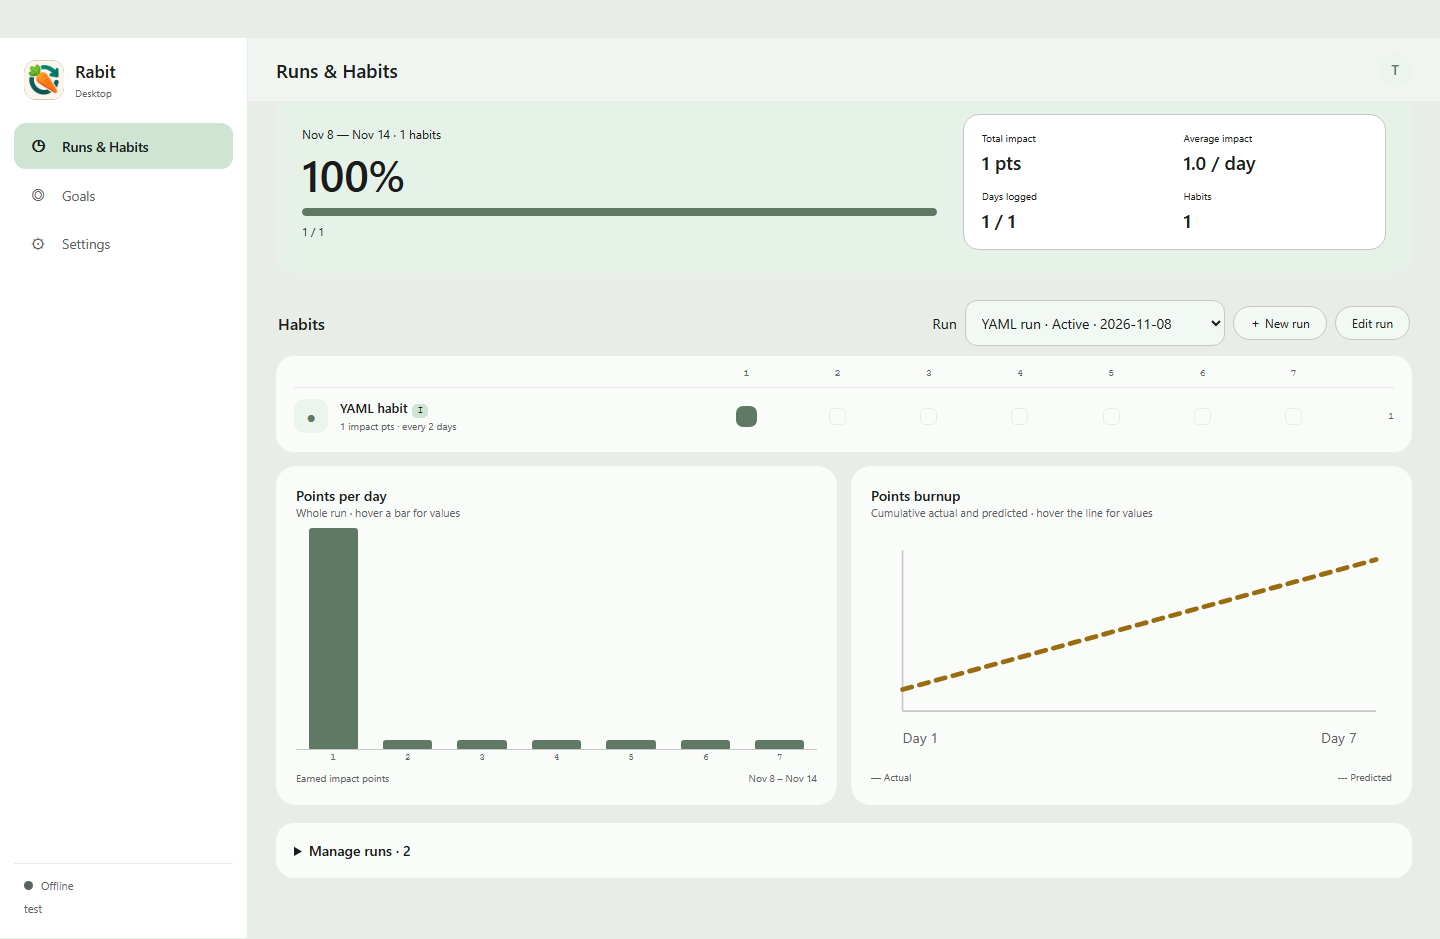
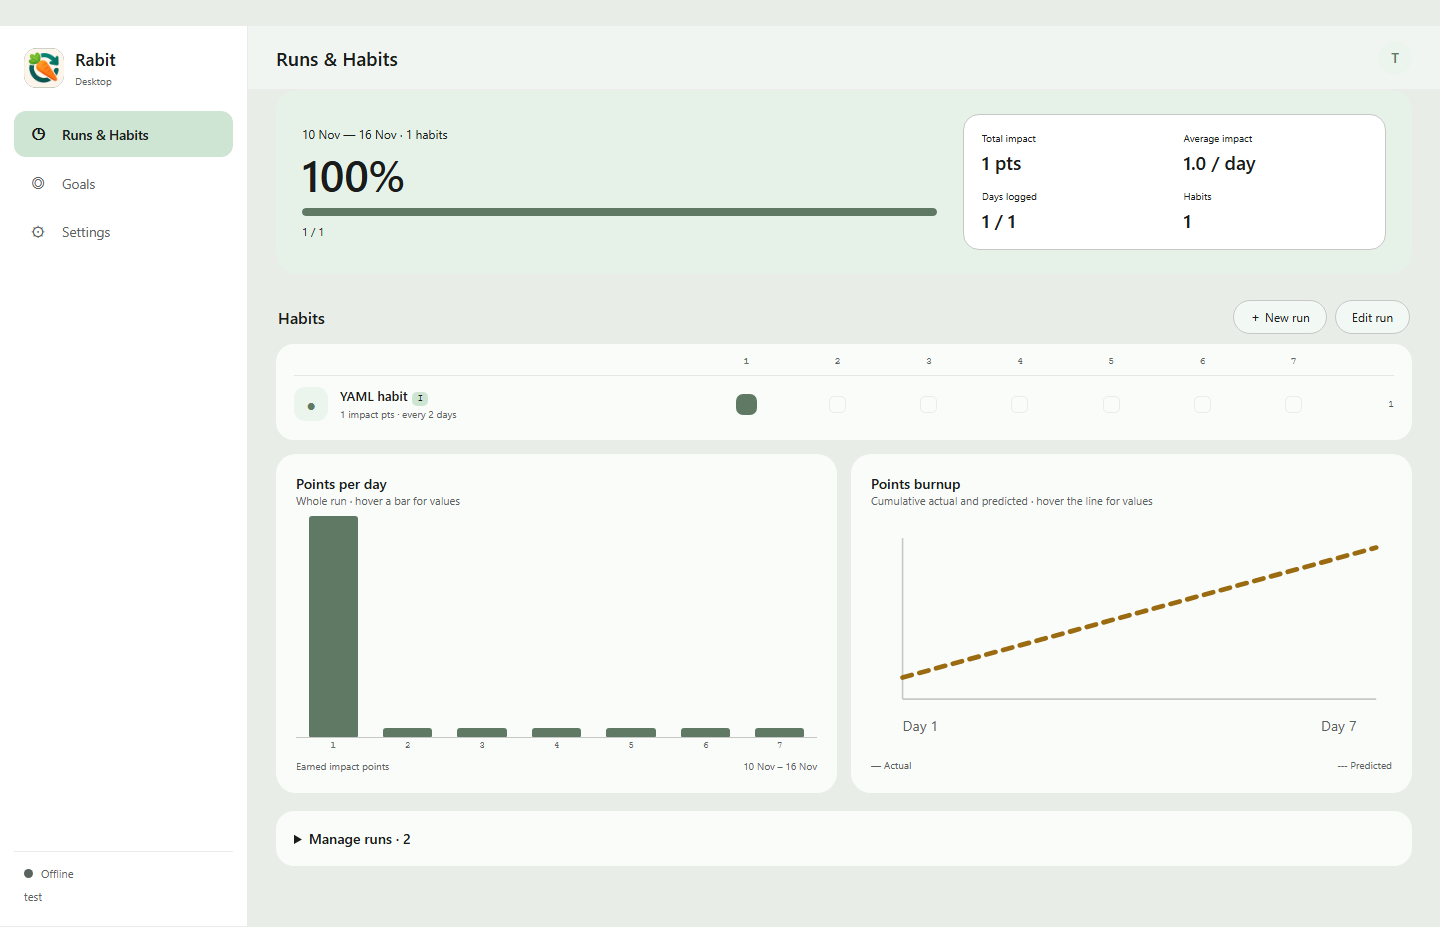
Keep one active run across Android and web

diff --git a/sync-server/src/main/resources/webapp/app.js b/sync-server/src/main/resources/webapp/app.js
@@ -203,6 +203,7 @@ async function sync() {
     }).filter(Boolean);
     const resp = await api('/api/sync', { device: deviceId(), token: Number(localStorage.getItem(LS.token) || 0), changes });
     for (const r of resp.changes || []) mergeIncoming(r);
+    ensureSingleActiveRun();
     localStorage.setItem(LS.token, String(resp.token));
     for (const [k, s] of snap) if (dirty.get(k) === s) dirty.delete(k);
     saveMirror();
@@ -218,16 +219,20 @@ async function sync() {
 }
 
 /* ---------- model ---------- */
-let selectedRunUid = '';
 function latestRun() {
-  const runs = rows('run').filter((r) => r.status === 'active');
-  runs.sort((a, b) => b.start_date.localeCompare(a.start_date));
-  return runs.find((r) => r.uid === selectedRunUid) || runs[0] || null;
+  const runs = allRuns();
+  return runs.find((r) => r.status === 'active') || runs[0] || null;
 }
 function allRuns() {
   const runs = rows('run');
-  runs.sort((a, b) => (a.start_date < b.start_date ? 1 : -1));
+  runs.sort((a, b) => b.start_date.localeCompare(a.start_date) || b.uid.localeCompare(a.uid));
   return runs;
+}
+// Keep the newest active run. Old parallel runs remain available as stopped history.
+function ensureSingleActiveRun() {
+  const active = allRuns().filter((r) => r.status === 'active');
+  for (const run of active.slice(1)) putRow('run', run.uid, { status: 'stopped' });
+  return Math.max(0, active.length - 1);
 }
 function duplicateHabitName(habits) {
   const seen = new Set();
@@ -558,6 +563,7 @@ function boot() {
   $('acctBtn').addEventListener('click', (e) => { e.stopPropagation(); $('acctMenu').classList.toggle('open'); });
   document.addEventListener('click', (e) => { if (!e.target.closest('.acct-wrap')) $('acctMenu').classList.remove('open'); });
   if (localStorage.getItem(LS.key)) {
+    ensureSingleActiveRun();
     setLoggedIn(true);
     showView('runs');
     showWelcomeIfNeeded();
@@ -692,14 +698,13 @@ function runManagement() {
   const runs = allRuns();
   if (!runs.length) return '';
   return `<details class="run-management"><summary>Manage runs · ${runs.length}</summary><p class="caption">Stop an active run before starting another. Deleting a run keeps its habits and check-in history.</p>
-    ${runs.map((r) => `<div class="run-management-row"><div><strong>${esc(r.name)}</strong><div class="caption">${esc(r.start_date)} · ${r.duration_days} days · ${r.status === 'active' ? 'Active' : 'Stopped'}</div></div><div class="head-btns"><button class="btn" data-click="viewRun" data-a="${safeId(r.uid)}">View</button><button class="btn" data-click="openEdit" data-a="${safeId(r.uid)}">Edit</button>${r.status === 'active' ? `<button class="btn" data-click="stopRun" data-a="${safeId(r.uid)}">Stop run</button>` : ''}<button class="btn" data-click="deleteRun" data-a="${safeId(r.uid)}">Delete run</button></div></div>`).join('')}</details>`;
+    ${runs.map((r) => `<div class="run-management-row"><div><strong>${esc(r.name)}</strong><div class="caption">${esc(r.start_date)} · ${r.duration_days} days · ${r.status === 'active' ? 'Active' : 'Stopped'}</div></div><div class="head-btns">${r.uid === latestRun()?.uid ? `<button class="btn" data-click="openEdit" data-a="${safeId(r.uid)}">Edit</button>` : ''}${r.status === 'active' ? `<button class="btn" data-click="stopRun" data-a="${safeId(r.uid)}">Stop run</button>` : ''}<button class="btn" data-click="deleteRun" data-a="${safeId(r.uid)}">Delete run</button></div></div>`).join('')}</details>`;
 }
 function stopRun(uid) {
   const run = row('run', uid)?.v;
   if (!run || run._deleted || run.status !== 'active') return;
   if (!window.confirm(`Stop “${run.name}”? You can still view its history.`)) return;
   putRow('run', uid, { status: 'stopped' });
-  selectedRunUid = uid;
   renderRuns();
 }
 function deleteRun(uid) {
@@ -708,12 +713,11 @@ function deleteRun(uid) {
   if (!window.confirm(`Delete “${run.name}”? Its habits and check-in history will be kept.`)) return;
   for (const link of rows('run_habit').filter((r) => r.run_uid === uid)) deleteRow('run_habit', link.uid);
   deleteRow('run', uid);
-  if (selectedRunUid === uid) selectedRunUid = '';
   renderRuns();
 }
 function renderRuns() {
   const body = $('runsBody');
-  const run = allRuns().find((r) => r.uid === selectedRunUid) || latestRun();
+  const run = latestRun();
   const today = todayLocal();
   if (!run) {
     body.innerHTML = (infiniteOn() ? infiniteView(today) : emptyRunsView()) + runManagement();
@@ -748,7 +752,7 @@ function renderRuns() {
     <div class="metric"><small>Days logged</small><b>${perDay.filter((e) => e > 0).length} / ${elapsed}</b></div>
     <div class="metric"><small>Habits</small><b>${habits.length}</b></div>
     </div></div></div>
-    <div class="section-head"><h3>Habits</h3><span class="head-btns"><label for="activeRunSelect">Run</label><select class="field" id="activeRunSelect" data-change="activeRun">${allRuns().map((r) => `<option value="${esc(safeId(r.uid))}"${r.uid === run.uid ? ' selected' : ''}>${esc(r.name)} · ${r.status === 'active' ? 'Active' : 'Stopped'} · ${esc(r.start_date)}</option>`).join('')}</select><button class="btn" data-click="openBuilder">＋ New run</button><button class="btn" data-click="openEdit" data-a="${safeId(run.uid)}">Edit run</button></span></div>
+    <div class="section-head"><h3>Habits</h3><span class="head-btns"><button class="btn" data-click="openBuilder">＋ New run</button><button class="btn" data-click="openEdit" data-a="${safeId(run.uid)}">Edit run</button></span></div>
     ${habitTable(visibleHabits, run.start_date, dur, today, 1)}
     ${resting.length ? `<details class="not-due"><summary>Not due today · ${resting.length}</summary><p class="caption">You can still log these habits whenever you choose.</p>${habitTable(resting, run.start_date, dur, today, 1)}</details>` : ''}
     <div class="charts-2">
@@ -1157,7 +1161,6 @@ function createRun() {
   if (duplicate) { showRunError(`“${duplicate}” appears more than once. Give each habit a different name.`); return; }
   const runId = `run-${start}-${randHex(4)}`;
   putRow('run', runId, { uid: runId, name: (b.name || '').trim() || `${days}-day run`, start_date: start, duration_days: days, status: 'active' });
-  selectedRunUid = runId;
   for (const h of named) {
     const uid = h.uid || `h-${slug(h.name)}-${randHex(2)}`;
     if (!h.uid) {
@@ -1354,7 +1357,6 @@ const ACTIONS = {
   openStandalone: () => openStandalone(),
   openBuilder: () => openBuilder(),
   openEdit: (a) => openEdit(a),
-  viewRun: (a) => { selectedRunUid = a; showView('runs'); },
   stopRun: (a) => stopRun(a),
   deleteRun: (a) => deleteRun(a),
   infiniteOn: () => { setInfinite(true); renderRuns(); },
@@ -1410,7 +1412,6 @@ document.addEventListener('change', (e) => {
   const el = e.target instanceof Element ? e.target.closest('[data-change]') : null;
   if (!el) return;
   if (el.dataset.change === 'attachUid') editRun.attachUid = el.value;
-  else if (el.dataset.change === 'activeRun') { selectedRunUid = el.value; renderRuns(); }
   else if (el.dataset.change === 'copyFrom') builderCopyFrom(el.value);
   else if (el.dataset.change === 'includeStandalone') { builder.includeStandalone = el.checked; builderCopyFrom(builder.copyFrom); }
 });

diff --git a/composeApp/src/commonMain/kotlin/app/habitlab/ui/RunsScreen.kt b/composeApp/src/commonMain/kotlin/app/habitlab/ui/RunsScreen.kt
@@ -383,33 +383,33 @@ internal fun loadRunHabits(
 ) {
     val runs = remember(database, revision) { database.schemaQueries.selectRuns().executeAsList() }
     val current = remember(database, revision) { database.currentRun()?.uid }
+    var showPastRuns by remember { mutableStateOf(false) }
+    val visibleRuns = if (showPastRuns) runs else runs.filter { it.uid == current }
     var pending by remember { mutableStateOf<Triple<String, String, String>?>(null) }
     Column(Modifier.fillMaxSize().padding(horizontal = 16.dp, vertical = 8.dp)) {
         Row(verticalAlignment = Alignment.CenterVertically) {
             TextButton(onClick = onBack) { Text("‹ Back") }
             Text("Manage runs", style = MaterialTheme.typography.titleLarge)
         }
+        if (runs.size > 1) {
+            TextButton(onClick = { showPastRuns = !showPastRuns }) {
+                Text(if (showPastRuns) "Hide past runs" else "Show past runs (${runs.size - 1})")
+            }
+        }
         LazyColumn(verticalArrangement = Arrangement.spacedBy(8.dp)) {
-            items(runs, key = { it.uid }) { run ->
+            items(visibleRuns, key = { it.uid }) { run ->
                 Card(colors = CardDefaults.cardColors(containerColor = surface), shape = RoundedCornerShape(16.dp)) {
                     Column(Modifier.fillMaxWidth().padding(12.dp)) {
                         Text(run.name, style = MaterialTheme.typography.titleSmall)
                         Text(
-                            "${run.start_date} · ${run.status}${if (run.uid == current) " · selected" else ""}",
+                            "${run.start_date} · ${run.status}",
                             color = muted,
                             style = MaterialTheme.typography.bodySmall,
                         )
                         Row(horizontalArrangement = Arrangement.spacedBy(4.dp)) {
-                            TextButton(onClick = {
-                                database.setPref(PREF_CURRENT_RUN, run.uid)
-                                onChanged()
-                                onBack()
-                            }) { Text("Select") }
-                            TextButton(onClick = {
-                                database.setPref(PREF_CURRENT_RUN, run.uid)
-                                onChanged()
-                                onEdit()
-                            }) { Text("Edit") }
+                            if (run.uid == current) {
+                                TextButton(onClick = onEdit) { Text("Edit") }
+                            }
                             if (run.status ==
                                 "active"
                             ) {

diff --git a/composeApp/src/commonMain/kotlin/app/habitlab/ui/HabitLabApp.kt b/composeApp/src/commonMain/kotlin/app/habitlab/ui/HabitLabApp.kt
@@ -217,6 +217,11 @@ fun HabitLabApp(
             if (outcome is SyncOutcome.Success) {
                 syncDirty = false
                 if (outcome.received > 0) runsRevision++
+                val repaired = database.ensureSingleActiveRun()
+                if (repaired > 0) {
+                    runsRevision++
+                    syncDirty = true
+                }
             }
         }
     }
@@ -224,6 +229,14 @@ fun HabitLabApp(
     fun noteLocalChange() {
         syncDirty = true
         doSync()
+    }
+
+    LaunchedEffect(database) {
+        val repaired = database.ensureSingleActiveRun()
+        if (repaired > 0) {
+            runsRevision++
+            noteLocalChange()
+        }
     }
 
     fun attemptSignIn(
@@ -317,7 +330,11 @@ fun HabitLabApp(
                         Destination.Runs
                     ) {
                         IconButton(onClick = {
-                            builderCopy = true
+                            if (database.activeRuns().isNotEmpty()) {
+                                manageRuns = true
+                            } else {
+                                builderCopy = true
+                            }
                         }, modifier = Modifier.size(42.dp).clip(RoundedCornerShape(50)).background(surface)) {
                             Text("＋", color = green, style = MaterialTheme.typography.headlineMedium)
                         }

diff --git a/composeApp/src/commonMain/kotlin/app/habitlab/ui/UiPrefs.kt b/composeApp/src/commonMain/kotlin/app/habitlab/ui/UiPrefs.kt
@@ -30,10 +30,24 @@ internal fun HabitDatabase.setHabitShareable(
 
 internal fun HabitDatabase.currentRun(): app.habitlab.db.Run? {
     val runs = schemaQueries.selectRuns().executeAsList()
-    return runs.firstOrNull { it.uid == pref(PREF_CURRENT_RUN) } ?: runs.firstOrNull { it.status == "active" } ?: runs.firstOrNull()
+    return runs
+        .filter {
+            it.status == "active"
+        }.sortedWith(compareByDescending<app.habitlab.db.Run> { it.start_date }.thenByDescending { it.uid })
+        .firstOrNull() ?: runs.firstOrNull()
 }
 
 internal fun HabitDatabase.activeRuns() = schemaQueries.selectRuns().executeAsList().filter { it.status == "active" }
+
+/** Resolve old or concurrently synced parallel runs without deleting their habits or check-ins. */
+internal fun HabitDatabase.ensureSingleActiveRun(): Int {
+    val active = activeRuns().sortedWith(compareByDescending<app.habitlab.db.Run> { it.start_date }.thenByDescending { it.uid })
+    if (active.size <= 1) return 0
+    transaction {
+        active.drop(1).forEach { schemaQueries.stopRun(it.uid) }
+    }
+    return active.size - 1
+}
 
 /** Delete only the run and its links; habits and dated check-ins may be shared. */
 internal fun HabitDatabase.deleteRunKeepingHabits(runUid: String) {

diff --git a/composeApp/src/jvmTest/kotlin/app/habitlab/ui/RunHabitsTest.kt b/composeApp/src/jvmTest/kotlin/app/habitlab/ui/RunHabitsTest.kt
@@ -86,16 +86,25 @@ class RunHabitsTest {
         )
     }
 
-    @Test fun currentRunPrefSelectsNewRunOnSameDay() {
+    @Test fun parallelActiveRunsAreStoppedWithoutDeletingHistory() {
         val driver = JdbcSqliteDriver(JdbcSqliteDriver.IN_MEMORY)
         HabitDatabase.Schema.create(driver)
         val db = HabitDatabase(driver)
         db.schemaQueries.insertRun("older", "Older", "2026-11-07", 21)
         db.schemaQueries.insertRun("newer", "Newer", "2026-11-07", 21)
         db.setPref(PREF_CURRENT_RUN, "newer")
-        assertEquals("newer", db.currentRun()?.uid)
-        db.setPref(PREF_CURRENT_RUN, "missing")
-        assertTrue(db.currentRun() != null)
+        assertEquals("older", db.currentRun()?.uid)
+        assertEquals(1, db.ensureSingleActiveRun())
+        assertEquals(listOf("older"), db.activeRuns().map { it.uid })
+        assertEquals(
+            "stopped",
+            db.schemaQueries
+                .selectRunByUid("newer")
+                .executeAsOne()
+                .status,
+        )
+        assertEquals(0, db.ensureSingleActiveRun())
+        driver.close()
     }
 
     @Test fun emptyRealRunNeverDisplaysExampleOrUnrelatedHabits() {

diff --git a/docs/developer-guide.md b/docs/developer-guide.md
@@ -12,7 +12,7 @@ Android first, built with Compose Multiplatform, Kotlin, Material 3 dark theme, 
 
 ## Android
 
-The current Android source version is **1.1.0** (Android version code **4**). The app follows Semantic Versioning: increase the major version for incompatible changes, the minor version for backward-compatible features, and the patch version for backward-compatible fixes. Increase `versionCode` to a new, higher integer for every Android release; it is independent of the three-part version name. Update `CHANGELOG.md` when preparing a release. A version in the source does not by itself publish an APK or create a Git tag.
+The current Android source version is **1.1.1** (Android version code **5**). The app follows Semantic Versioning: increase the major version for incompatible changes, the minor version for backward-compatible features, and the patch version for backward-compatible fixes. Increase `versionCode` to a new, higher integer for every Android release; it is independent of the three-part version name. Update `CHANGELOG.md` when preparing a release. A version in the source does not by itself publish an APK or create a Git tag.
 
 Open the project in Android Studio or build with the Gradle wrapper:
 
@@ -29,7 +29,7 @@ For a signed release APK on Windows, use an existing Android signing keystore an
 
 The script asks for the keystore and key passwords and saves the signed APK in `composeApp/build/outputs/apk/release/HabitLab-release.apk`. Use the same signing key as previous releases to install an update; keep the keystore and passwords backed up securely. Increase `versionCode` before distributing an update when required. The script does not create or save signing credentials.
 
-The first launch seeds a sample 21-day run and four habits in the local SQLite database. Use the run selector to inspect active or stopped runs, and Edit to change a run's name, length, or habits. Only one run may be active at a time: stop the current run before creating another. A stopped run keeps its habits and check-ins but cannot receive new logs. Deleting a run removes its membership links while preserving reusable habits and their check-in history. Habit names must be unique within a run after trimming whitespace and ignoring letter case. The editor can copy the run as YAML for external editing; this configuration does not include check-ins or identifiers. Editing a shared habit changes it in all runs that use it, and removing it from a run does not delete its history. Quick Log writes dated Done, Partial, and Skipped check-ins and comments locally. The app shows Runs, Quick Log, Goals and Settings. Analytics and Trackers stay in the code but are hidden from the dock. Weekly-target and partial/effort scoring remain open per the product spec; docs/PROGRESS.md has the change log.
+The first launch seeds a sample 21-day run and four habits in the local SQLite database. Open the current run card to manage it and Edit to change its name, length, or habits. Older stopped runs remain under Show past runs; there is no run selector. Only one run may be active at a time: stop the current run before creating another. A stopped run keeps its habits and check-ins but cannot receive new logs. Deleting a run removes its membership links while preserving reusable habits and their check-in history. Habit names must be unique within a run after trimming whitespace and ignoring letter case. The editor can copy the run as YAML for external editing; this configuration does not include check-ins or identifiers. Editing a shared habit changes it in all runs that use it, and removing it from a run does not delete its history. Quick Log writes dated Done, Partial, and Skipped check-ins and comments locally. The app shows Runs, Quick Log, Goals and Settings. Analytics and Trackers stay in the code but are hidden from the dock. Weekly-target and partial/effort scoring remain open per the product spec; docs/PROGRESS.md has the change log.
 
 ## Sync server (Linux)
 
@@ -55,7 +55,7 @@ Keep the service on loopback behind an authenticated HTTPS reverse proxy for rem
 
 ## Web app
 
-The server hosts the Rabit web app at `/` (same origin as the API, so no CORS is needed). Open `http://<host>:<port>/` in a browser and sign in with a sync-server account. Select an active or stopped run on the Runs page to view its habits. The run manager can stop or delete runs, and creation is blocked while another run is active. Deleting a run preserves habits and check-in history. Duplicate habit names in one run are rejected after case and whitespace normalization. Interval habits resting after a completion are under “Not due today”; expand the section to log them anyway. Edit run offers a YAML download of the current editor settings; importing it creates a new run and does not restore check-ins or IDs. Copying a run includes standalone habits only when selected. Shared habits remain linked, so editing one changes it in every run that uses it. Analytics, Trackers, and Quick Log stay in the code with their nav entries hidden. The web bundle ships inside the server; see `ui-qa/README.md` for browser checks.
+The server hosts the Rabit web app at `/` (same origin as the API, so no CORS is needed). Open `http://<host>:<port>/` in a browser and sign in with a sync-server account. The Runs page shows one current run; older stopped runs remain in Manage runs. The run manager can stop or delete runs, and creation is blocked while another run is active. Deleting a run preserves habits and check-in history. Duplicate habit names in one run are rejected after case and whitespace normalization. Interval habits resting after a completion are under “Not due today”; expand the section to log them anyway. Edit run offers a YAML download of the current editor settings; importing it creates a new run and does not restore check-ins or IDs. Copying a run includes standalone habits only when selected. Shared habits remain linked, so editing one changes it in every run that uses it. Analytics, Trackers, and Quick Log stay in the code with their nav entries hidden. The web bundle ships inside the server; see `ui-qa/README.md` for browser checks.
 
 ## For agents continuing this work
 

diff --git a/docs/PROGRESS.md b/docs/PROGRESS.md
@@ -4,6 +4,15 @@ Running record of what is built, what is live, and every operational lesson
 learned. Read this file first before continuing work; append to it when you
 finish a step (the owner commits after every step).
 
+## Single current run and server ignore rules
+
+- Android and hosted web remove the run selector. Android's run manager shows the current run by default, with older stopped runs behind “Show past runs.” The Android add button opens run management while an active run exists; the builder also retains its creation guard.
+- Both clients reconcile legacy or concurrently synced multiple-active data by keeping the newest run (start date, then UID) active and stopping the others. This preserves run rows, memberships, habits, and check-ins. The reconciliation changes sync through the existing protocol. The server itself does not enforce a one-active-run constraint, so this is a client-side convergence rule.
+- The owner chose to keep server source tracked. Ignore rules now explicitly cover local server databases, logs, and machine-specific Gradle settings, in addition to existing build and data exclusions.
+- Android JVM tests, ktlint, Android debug assembly, server tests, and the isolated browser lifecycle journey passed. The browser journey refreshed the desktop and mobile screenshots. No Android device was connected for on-device interaction testing.
[1 lines of base64/hex data omitted]
+- Test and production server JARs were backed up before restarting. The first root Gradle build left the standalone fat JAR stale; a direct `sync-server/gradlew.bat buildFatJar` rebuilt it with the new JavaScript. Both 8788 and 8789 passed health checks and served the updated app without `activeRunSelect`. Future server deployments must use the standalone wrapper and verify the bundled web asset, not only the source tree.
+
 ## Android daily text sharing
 
 - Android's Runs toolbar now opens Share. Habit detail has an opt-in switch, off by default. Share lists only opted-in habits due today, shows ✓/◐/✕ for done/partial/other, and copies plain text headed `# Day N, D Month` with optional today and run percentages. The options are in Share settings.

diff --git a/ui-qa/README.md b/ui-qa/README.md
@@ -38,7 +38,7 @@ The flow checks Runs → Quick Log navigation, opens and closes the comment fiel
 
 ## Webapp end-to-end (`webapp-check.mjs`)
 
-For an isolated desktop browser check with a disposable in-memory mirror and no server account, run `npm ci --prefix ui-qa` and `node ui-qa/offline-runs-check.mjs`. It covers scratch and YAML creation, edit and YAML download, copying, run selection, and optional logging on an interval rest day. It does not test real authentication or server synchronization.
+For an isolated desktop browser check with a disposable in-memory mirror and no server account, run `npm ci --prefix ui-qa` and `node ui-qa/offline-runs-check.mjs`. It covers scratch and YAML creation, edit and YAML download, copying, single-active-run repair, and optional logging on an interval rest day. It does not test real authentication or server synchronization.
 
 Desktop Playwright checks against the live server: static bundle, login + 401 path, then (with a test account) scratch run creation, YAML run creation, run editing, swipe logging, and a wipe-and-redownload persistence proof.
 

diff --git a/CHANGELOG.md b/CHANGELOG.md
@@ -10,6 +10,13 @@ All notable changes are documented here. Follow Keep a Changelog and Semantic Ve
 
 ## [Unreleased]
 
+## [1.1.1] - Single current run
+
+- Android and browser now show one current run without a run selector. Old parallel active runs are stopped automatically; their habits and check-in history remain.
+- Starting a new run is blocked while an active run exists. The Android add button opens run management so the current run can be stopped first.
+- Server source remains tracked; local server databases, logs, and machine-specific Gradle settings are ignored.
+- Increased Android version code to 5.
+
 ## [1.1.0] - Daily text sharing
 
 - Added Android per-habit sharing opt-in and a Share page that copies daily completion as text.

diff --git a/README.md b/README.md
@@ -23,7 +23,7 @@ These screenshots show earlier builds; some controls and labels have since chang
 
 ## Get started
 
-**Android:** Download the signed [Rabit 1.1.0 APK](https://github.com/CreativeCheebs/Rabit-Habit-Tracker/releases/tag/v1.1.0). Open Rabit and choose offline use or connect to your own sync server.
+**Android:** Download the signed [Rabit 1.1.1 APK](https://github.com/CreativeCheebs/Rabit-Habit-Tracker/releases/tag/v1.1.1). Open Rabit and choose offline use or connect to your own sync server.
 
 **Browser:** The web app is included with the self-hosted sync server. Follow the [Docker setup guide](docs/docker.md), then open your server's address in a browser and create an account.
 
